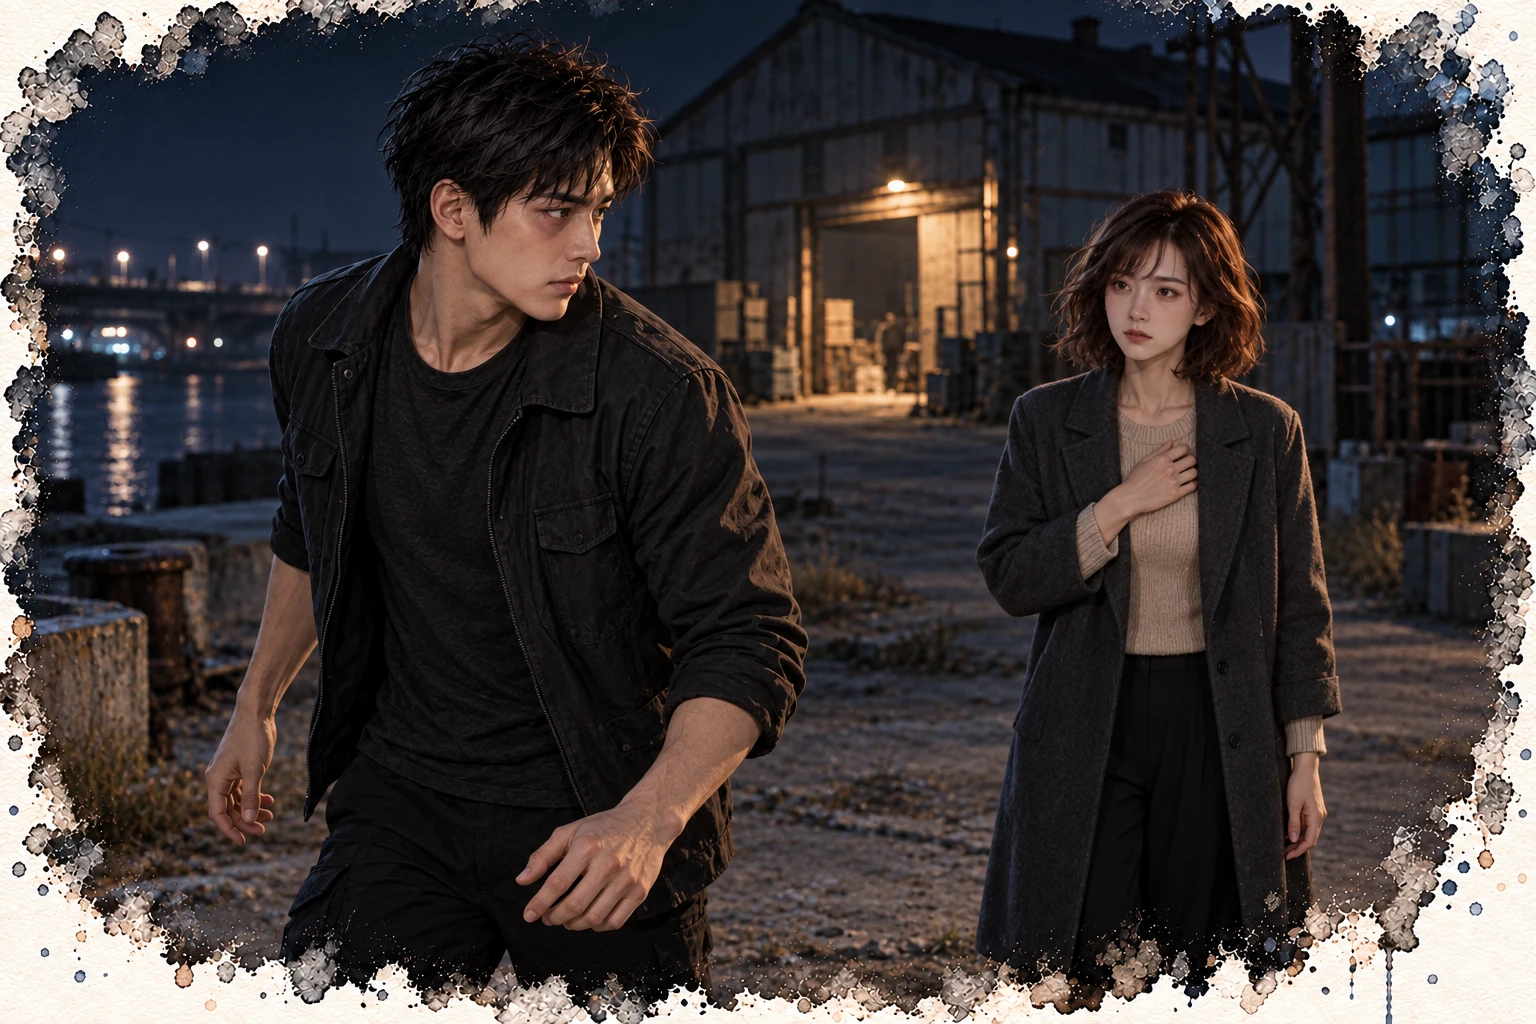
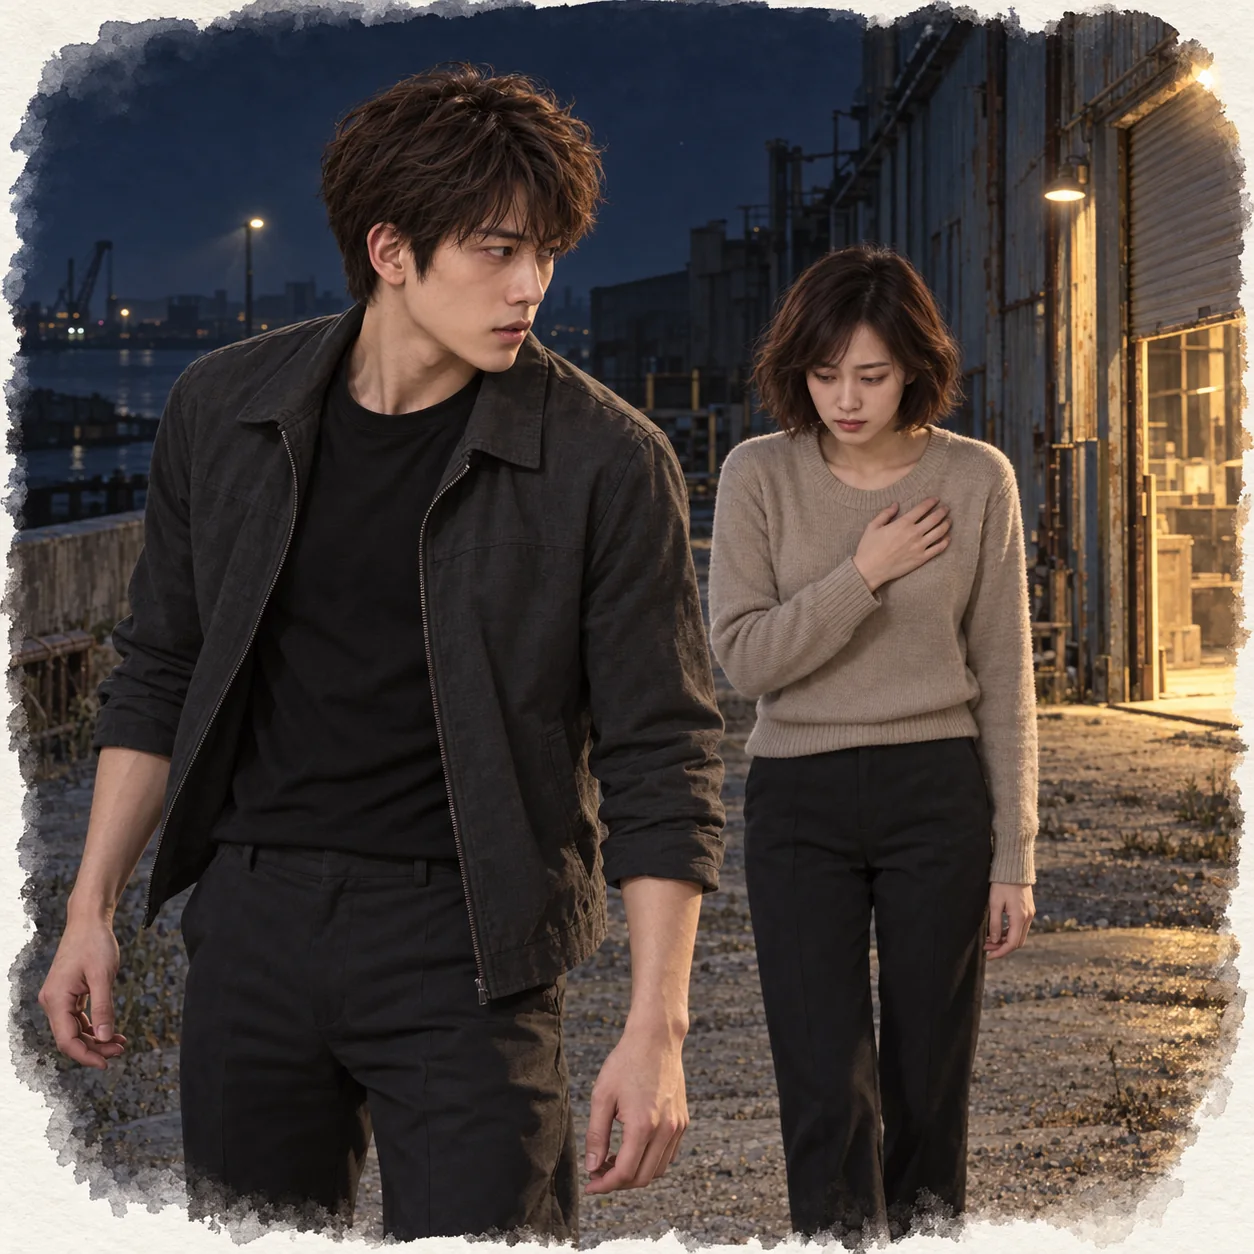
沒有招牌的酒吧 第一部第十章：替換陸曜插圖
Claude-Session: https://claude.ai/code/session_01HUwf2ENyDuzceKaKYawxmj

diff --git a/novels/no-signboard-bar/chapter-10.html b/novels/no-signboard-bar/chapter-10.html
@@ -30,7 +30,7 @@
 <p>然後我拿起手機，打給陸曜。</p>
 </section>
 <section class="pov pov-lu" data-name="陸曜">
-<div class="pov-opening"><h2 class="pov-title" id="pov-2"><span>敘事視角</span>陸曜</h2><a class="pov-art" href="../../assets/novels/no-signboard-bar/chapter-10-lu-yao.webp" target="_blank" rel="noopener" aria-label="開啟陸曜插圖大圖"><img src="../../assets/novels/no-signboard-bar/chapter-10-lu-yao.webp" alt="陸曜在河邊倉庫外回頭看著溫寧，溫寧右手按在胸前。" width="1536" height="1024" loading="lazy" decoding="async"><span class="pov-cap">走。</span></a><div class="pov-intro"><p>她在電話裡只說了一句：「你來藥局。現在。」</p>
+<div class="pov-opening"><h2 class="pov-title" id="pov-2"><span>敘事視角</span>陸曜</h2><a class="pov-art" href="../../assets/novels/no-signboard-bar/chapter-10-lu-yao.webp?v=20261013" target="_blank" rel="noopener" aria-label="開啟陸曜插圖大圖"><img src="../../assets/novels/no-signboard-bar/chapter-10-lu-yao.webp?v=20261013" alt="深夜河邊的倉庫區，倉庫裡傳出一聲槍響，陸曜回頭看向停在原地的溫寧；她低著頭，右手按在胸口。" width="1254" height="1254" loading="lazy" decoding="async"><span class="pov-cap">走。</span></a><div class="pov-intro"><p>她在電話裡只說了一句：「你來藥局。現在。」</p>
 <p>我三分鐘就到了。破了我在這條巷子的紀錄。</p>
 <p>她站在櫃檯後面，把一串鑰匙和一張紙推到我面前。</p></div></div>
 <p>我讀那張紙。</p>
